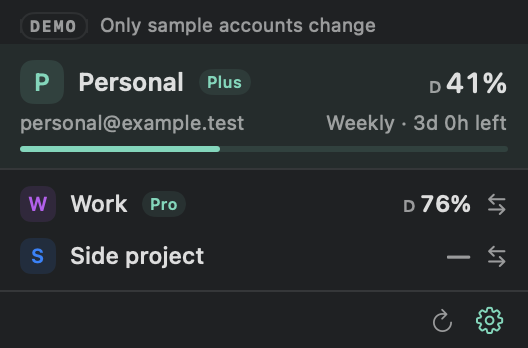
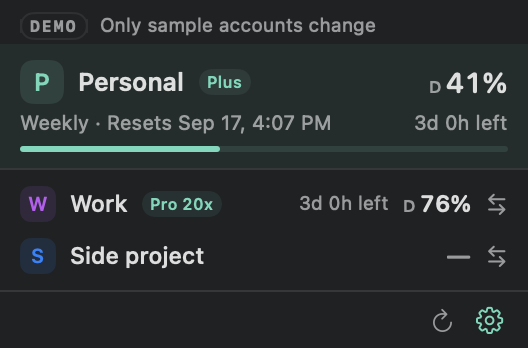
feat: official plan names, reset time on rows, usage-check flag
- Plan badges follow the Codex desktop app's own labels: Free, Go,
  Plus, Pro 5x (prolite), Pro 20x (pro), Team, Business, Edu variants,
  Enterprise for ent26/enterprise_cbp_*; unknown stays "plan unknown".
- ResetSchedule gains compactLabel ("9월 17일 오후 3:04 초기화" /
  "Resets Sep 17, 3:04 PM", with today/tomorrow forms). The signed-in
  row shows window, reset date/time, and time left; other rows show
  time left before the percent. Email moves to the tooltip.
- `--live --usage-check` runs the panel's live read and prints plan,
  windows, and any error without tokens, then exits.

Changed region(s): [[0.0303, 0.3161, 0.9697, 0.4023], [0.5758, 0.546, 0.7576, 0.6034], [0.3333, 0.546, 0.4242, 0.6034]]

diff --git a/Sources/CodexAccountToggle/Panel.swift b/Sources/CodexAccountToggle/Panel.swift
@@ -82,7 +82,7 @@ struct Panel: View {
         let warning = schedule.needsRefresh && window != nil
         return VStack(alignment: .leading, spacing: 3) {
             titleLine(profile, usage: usage, remaining: remaining)
-            detailLine(profile, text: detail.text, help: detail.help, warning: warning)
+            detailLine(left: detail.left, right: detail.right, help: detail.help, warning: warning)
             if window != nil { quotaBar(remaining) }
         }
         .padding(.horizontal, 10).padding(.vertical, 8)
@@ -101,12 +101,12 @@ struct Panel: View {
             percentLabel(usage: usage, remaining: remaining, size: 14)
         }
     }
-    private func detailLine(_ profile: Profile, text: String, help: String, warning: Bool) -> some View {
+    private func detailLine(left: String, right: String, help: String, warning: Bool) -> some View {
         HStack(spacing: 6) {
-            Text(profile.email).font(.system(size: 10)).foregroundStyle(.secondary).lineLimit(1).truncationMode(.middle)
+            Text(left).font(.system(size: 10)).foregroundStyle(.secondary).lineLimit(1).truncationMode(.middle)
             Spacer(minLength: 6)
-            Text(text).font(.system(size: 10)).lineLimit(1).foregroundStyle(warning ? Palette.warning : Color.secondary).help(help)
-        }
+            Text(right).font(.system(size: 10)).lineLimit(1).fixedSize().foregroundStyle(warning ? Palette.warning : Color.secondary)
+        }.help(help)
     }
     private func quotaBar(_ remaining: Double?) -> some View {
         GeometryReader { geometry in
@@ -122,6 +122,7 @@ struct Panel: View {
     private func otherRow(_ profile: Profile) -> some View {
         let usage = model.usage[profile.id]
         let window = usage.flatMap { orderedWindows($0).first }
+        let schedule = ResetSchedule(timestamp: window?.resetsAt, now: Date(), language: L10n.language)
         let remaining: Double? = window.flatMap { $0.resetPassed(at: Date()) ? nil : $0.remainingPercent }
         return Button { model.switchTo(profile) } label: {
             HStack(spacing: 7) {
@@ -129,6 +130,9 @@ struct Panel: View {
                 Text(profile.name).font(.system(size: 11.5, weight: .medium)).foregroundStyle(.primary).lineLimit(1).truncationMode(.middle)
                 planBadge(profile)
                 Spacer(minLength: 6)
+                if window != nil, !schedule.remainingLabel.isEmpty, !schedule.needsRefresh {
+                    Text(schedule.remainingLabel).font(.system(size: 9.5)).foregroundStyle(.secondary).fixedSize().help(schedule.compactLabel)
+                }
                 percentLabel(usage: usage, remaining: remaining, size: 11.5)
                 Image(systemName: "arrow.left.arrow.right").font(.system(size: 9, weight: .semibold)).foregroundStyle(.secondary)
             }.padding(.horizontal, 10).frame(height: PanelLayout.rowHeight).contentShape(Rectangle())
@@ -174,14 +178,11 @@ struct Panel: View {
         case .live: return usage.isStale(at: Date()) ? "~" : nil
         }
     }
-    private func detailLabel(usage: UsageSnapshot?, window: UsageWindow?, schedule: ResetSchedule) -> (text: String, help: String) {
-        if let window {
-            let when = schedule.remainingLabel.isEmpty ? schedule.dateLabel : schedule.remainingLabel
-            return (window.title + " · " + when, schedule.fullLabel)
-        }
-        if model.isDemo { return (L10n.text("사용량 미확인"), L10n.text("사용량 미확인 · 실시간 조회 연결 전")) }
+    private func detailLabel(usage: UsageSnapshot?, window: UsageWindow?, schedule: ResetSchedule) -> (left: String, right: String, help: String) {
+        if let window { return (window.title + " · " + schedule.compactLabel, schedule.remainingLabel, schedule.fullLabel) }
+        if model.isDemo { return (L10n.text("사용량 미확인"), "", L10n.text("사용량 미확인 · 실시간 조회 연결 전")) }
         let text = model.liveUsageError ?? L10n.text("사용량 기록 없음 · Codex를 사용하면 표시됩니다")
-        return (text, text)
+        return (text, "", text)
     }
     private func usageCaption(_ usage: UsageSnapshot) -> String {
         if productPreview { return L10n.text("한국 시간 (KST)") }

diff --git a/Sources/SwitchCore/ResetSchedule.swift b/Sources/SwitchCore/ResetSchedule.swift
@@ -6,6 +6,8 @@ public struct ResetSchedule {
     public let timeLabel: String
     public let remainingLabel: String
     public let fullLabel: String
+    /// One short phrase with day and clock time, e.g. "9월 17일 오후 3:04 초기화" / "Resets Sep 17, 3:04 PM".
+    public let compactLabel: String
     public let needsRefresh: Bool
 
     public init(timestamp: Double?, now: Date, language: AppLanguage = .korean) {
@@ -16,6 +18,7 @@ public struct ResetSchedule {
             timeLabel = ""
             remainingLabel = ""
             fullLabel = english ? "Reset time is unavailable." : "초기화 시각을 확인하지 못했습니다."
+            compactLabel = dateLabel
             needsRefresh = false
             return
         }
@@ -28,13 +31,19 @@ public struct ResetSchedule {
         formatter.timeZone = calendar.timeZone
         formatter.dateFormat = calendar.component(.year, from: now) == calendar.component(.year, from: date) ? (english ? "MMM d" : "M월 d일") : (english ? "MMM d, yyyy" : "yyyy년 M월 d일")
         let day = formatter.string(from: date)
+        let relativeDay: String?
         if calendar.isDate(date, inSameDayAs: now) {
+            relativeDay = english ? "today" : "오늘"
             dateLabel = (english ? "Today · " : "오늘 · ") + day
         } else if let tomorrow = calendar.date(byAdding: .day, value: 1, to: now), calendar.isDate(date, inSameDayAs: tomorrow) {
+            relativeDay = english ? "tomorrow" : "내일"
             dateLabel = (english ? "Tomorrow · " : "내일 · ") + day
-        } else { dateLabel = day }
+        } else { relativeDay = nil; dateLabel = day }
         formatter.dateFormat = english ? "h:mm a" : "a h:mm"
-        timeLabel = (english ? "Resets " : "") + formatter.string(from: date) + (english ? "" : " 초기화")
+        let clock = formatter.string(from: date)
+        timeLabel = (english ? "Resets " : "") + clock + (english ? "" : " 초기화")
+        compactLabel = english ? "Resets " + (relativeDay ?? day) + (relativeDay == nil ? ", " : " ") + clock
+                               : (relativeDay ?? day) + " " + clock + " 초기화"
         formatter.dateFormat = english ? "EEEE, MMM d, yyyy h:mm:ss a" : "yyyy년 M월 d일 (EEEE) a h:mm:ss"
         fullLabel = formatter.string(from: date) + (english ? " · Korea time (KST)" : " · 한국 시간 (KST)")
         needsRefresh = date <= now

diff --git a/Sources/CodexAccountToggle/App.swift b/Sources/CodexAccountToggle/App.swift
@@ -63,6 +63,26 @@ final class AppDelegate: NSObject, NSApplicationDelegate, NSPopoverDelegate {
             NSApp.terminate(nil)
             return
         }
+        if CommandLine.arguments.contains("--usage-check") {
+            // Diagnostic: run the same live read the panel uses and print a token-free summary.
+            guard !model.isDemo else { print("usage-check requires --live"); NSApp.terminate(nil); return }
+            Task { @MainActor in
+                model.refreshLiveUsage(force: true)
+                for _ in 0..<60 where model.liveUsage.isLoading || model.usage[model.current ?? ""]?.source != .live && model.liveUsageError == nil {
+                    try? await Task.sleep(nanoseconds: 250_000_000)
+                }
+                let current = model.current ?? "-"
+                let snapshot = model.usage[current]
+                print("current profile:", current.prefix(8), "| saved profiles:", model.profiles.count)
+                print("live error:", model.liveUsageError ?? "none")
+                print("source:", snapshot.map { "\($0.source)" } ?? "none", "| plan:", snapshot?.plan ?? "nil", "| label:", snapshot?.planLabel ?? "nil")
+                for window in snapshot?.windows ?? [] {
+                    print("window:", window.title, "| used:", window.usedPercent ?? -1, "| resets_at:", window.resetsAt ?? -1)
+                }
+                NSApp.terminate(nil)
+            }
+            return
+        }
         // A previous-name instance may still be open; never terminate or run alongside it.
         let peers = NSRunningApplication.runningApplications(withBundleIdentifier: Bundle.main.bundleIdentifier ?? "com.chunghyup.codex-account-toggle")
         let legacyPeers = NSRunningApplication.runningApplications(withBundleIdentifier: "local.codexswitch.menubar")

diff --git a/Sources/SwitchCore/Usage.swift b/Sources/SwitchCore/Usage.swift
@@ -75,18 +75,27 @@ public struct UsageSnapshot {
         let limit = payload.rateLimitsByLimitId.map { $0["codex"] } ?? payload.rateLimits
         return UsageSnapshot(profileID: profileID, plan: plan ?? limit?.planType, limit: limit, observedAt: observedAt, source: source)
     }
+    /// Labels follow the Codex desktop app's own plan names ("prolite" is Pro 5x, "pro" is Pro 20x).
     public var planLabel: String {
         guard let plan, !plan.isEmpty else { return L10n.text("요금제 미확인") }
         let lowered = plan.lowercased()
         switch lowered {
-        case "plus": return "Plus"
-        case "pro": return "Pro"
         case "free": return "Free"
-        case "business", "team": return "Business"
-        case "enterprise": return "Enterprise"
+        case "go": return "Go"
+        case "plus": return "Plus"
+        case "prolite": return "Pro 5x"
+        case "pro": return "Pro 20x"
+        case "team": return "Team"
+        case "business": return "Business"
+        case "self_serve_business_prolite": return "Business 5x"
+        case "self_serve_business_usage_based": return "Business"
+        case "edu": return "Edu"
+        case "edu_plus": return "Edu Plus"
+        case "edu_pro": return "Edu Pro"
+        case "unknown": return L10n.text("요금제 미확인")
         default: break
         }
-        if lowered.contains("enterprise") { return "Enterprise" }
+        if lowered.contains("enterprise") || lowered.hasPrefix("ent") { return "Enterprise" }
         if lowered.contains("business") || lowered.contains("team") { return "Business" }
         return plan.split(separator: "_").map { $0.prefix(1).uppercased() + $0.dropFirst() }.joined(separator: " ")
     }

diff --git a/Tests/SwitchCoreTests/SessionUsageTests.swift b/Tests/SwitchCoreTests/SessionUsageTests.swift
@@ -85,7 +85,7 @@ final class SessionUsageTests: XCTestCase {
         XCTAssertEqual(usage[a.id]?.source, .sessionLog)
         XCTAssertFalse(usage[a.id]!.isDemo)
         XCTAssertFalse(usage[a.id]!.isStale(at: Date()))
-        XCTAssertEqual(usage[a.id]?.planLabel, "Business")
+        XCTAssertEqual(usage[a.id]?.planLabel, "Business 5x")
         XCTAssertEqual((try FileManager.default.attributesOfItem(atPath: store.root.appendingPathComponent("usage.json").path)[.posixPermissions] as? NSNumber)?.intValue, 0o600)
         try FileManager.default.removeItem(at: first)
         usage = SessionUsage.collect(store: store, profileIDs: [a.id, b.id])
@@ -107,9 +107,13 @@ final class SessionUsageTests: XCTestCase {
     }
     func testPlanLabelHumanizesServicePlans() {
         func label(_ plan: String) -> String { UsageSnapshot(profileID: "x", plan: plan, limit: nil, observedAt: Date(), source: .sessionLog).planLabel }
-        XCTAssertEqual(label("self_serve_business_prolite"), "Business")
+        XCTAssertEqual(label("prolite"), "Pro 5x")
+        XCTAssertEqual(label("pro"), "Pro 20x")
         XCTAssertEqual(label("plus"), "Plus")
-        XCTAssertEqual(label("prolite"), "Prolite")
-        XCTAssertEqual(label("enterprise_x"), "Enterprise")
+        XCTAssertEqual(label("self_serve_business_prolite"), "Business 5x")
+        XCTAssertEqual(label("ent26"), "Enterprise")
+        XCTAssertEqual(label("enterprise_cbp_usage_based"), "Enterprise")
+        XCTAssertEqual(label("edu_pro"), "Edu Pro")
+        XCTAssertEqual(label("unknown"), L10n.text("요금제 미확인"))
     }
 }

diff --git a/Tests/SwitchCoreTests/ResetScheduleTests.swift b/Tests/SwitchCoreTests/ResetScheduleTests.swift
@@ -2,6 +2,16 @@ import XCTest
 @testable import SwitchCore
 
 final class ResetScheduleTests: XCTestCase {
+    func testCompactLabelCarriesDayAndClock() {
+        let reset = ISO8601DateFormatter().date(from: "2026-09-17T06:04:00Z")! // 15:04 KST
+        let far = reset.addingTimeInterval(-3 * 86400)
+        XCTAssertEqual(ResetSchedule(timestamp: reset.timeIntervalSince1970, now: far, language: .korean).compactLabel, "9월 17일 오후 3:04 초기화")
+        XCTAssertEqual(ResetSchedule(timestamp: reset.timeIntervalSince1970, now: far, language: .english).compactLabel, "Resets Sep 17, 3:04 PM")
+        let sameDay = reset.addingTimeInterval(-3600)
+        XCTAssertEqual(ResetSchedule(timestamp: reset.timeIntervalSince1970, now: sameDay, language: .korean).compactLabel, "오늘 오후 3:04 초기화")
+        XCTAssertEqual(ResetSchedule(timestamp: reset.timeIntervalSince1970, now: sameDay, language: .english).compactLabel, "Resets today 3:04 PM")
+        XCTAssertEqual(ResetSchedule(timestamp: nil, now: far, language: .english).compactLabel, "Reset date unavailable")
+    }
     func date(_ value: String) -> Date { ISO8601DateFormatter().date(from: value)! }
     func testTodayUsesKoreanTimeAndExactClock() {
         let value = ResetSchedule(timestamp: date("2026-09-10T14:30:00Z").timeIntervalSince1970, now: date("2026-09-10T12:10:00Z"))

diff --git a/docs/design.md b/docs/design.md
@@ -15,7 +15,7 @@
 
 ## 구조와 상호작용 (2026-09-14 컴팩트 개편)
 
-(데모 표시줄) → 현재 계정 → 다른 계정 목록 → 필요한 상태 메시지 → 하단 도구 순서. 헤더, 큰 카드, 데모 안내 영역, 가시적 더보기 버튼은 제거했다. 현재 계정은 이름·요금제·잔여 %와 이메일·창 이름·초기화까지 남은 시간, 3pt 게이지의 두 줄이다. 다른 계정은 한 줄(26pt)이며 행을 클릭하면 전환한다. 이름 변경은 각 행의 우클릭 메뉴, 데모 시나리오와 표시 옵션은 톱니바퀴 메뉴에 있다. 전환 중에는 계정 선택과 관리 동작을 잠근다. 실제 전환 경로의 확인 절차는 유지한다.
+(데모 표시줄) → 현재 계정 → 다른 계정 목록 → 필요한 상태 메시지 → 하단 도구 순서. 헤더, 큰 카드, 데모 안내 영역, 가시적 더보기 버튼은 제거했다. 현재 계정은 이름·요금제·잔여 %와 창 이름·초기화 날짜/시각·남은 시간, 3pt 게이지의 두 줄이다. 이메일은 도움말과 접근성 이름으로만 제공한다. 다른 계정은 한 줄(26pt)에 남은 시간과 잔여 %를 함께 보여주며 행을 클릭하면 전환한다. 요금제 배지는 Codex 데스크톱 앱의 표기(Free/Go/Plus/Pro 5x/Pro 20x, 비즈니스·엔터프라이즈·교육 변형)를 따른다. 이름 변경은 각 행의 우클릭 메뉴, 데모 시나리오와 표시 옵션은 톱니바퀴 메뉴에 있다. 전환 중에는 계정 선택과 관리 동작을 잠근다. 실제 전환 경로의 확인 절차는 유지한다.
 
 264pt 폭, 높이는 내용에 맞춰 자동(계정 3개 기준 약 174pt). 10pt 바깥 여백, 3~7pt 간격. 현재 계정명 12.5pt, 일반 계정명 11.5pt, 이메일/보조 정보 10pt, 잔여 % 14/11.5pt rounded. 데이터 출처는 %% 앞의 작은 표식(`D` 샘플, `기록` 세션 기록, `~` 오래된 값)과 도움말로 알린다. 계정이 6개를 넘으면 목록만 스크롤한다. 다크 모드는 시스템 외관을 따르며 청록색 밝기를 높인다.
 

diff --git a/README.md b/README.md
@@ -89,6 +89,6 @@ Only when you choose to test your own real accounts, finish your Codex work and 
 open "$HOME/Applications/Codex Account Toggle.app" --args --live
 ```
 
-This command is for your manual QA, not automated development tests. Save account A with **Save signed-in account**. Sign in to account B yourself in Codex and save B too. Test B→A→B, verify the account shown inside Codex after each restart, and check project/conversation availability. Cancel a switch confirmation and verify the current account stays selected. If quitting fails, the switch should stop without replacing credentials. Do not force a failure against real credentials; use demo scenarios for recovery testing.
+This command is for your manual QA, not automated development tests. To see what the live read returns without opening the panel, run the executable with `--live --usage-check`; it prints the plan, windows, and any error (never tokens) and exits. Save account A with **Save signed-in account**. Sign in to account B yourself in Codex and save B too. Test B→A→B, verify the account shown inside Codex after each restart, and check project/conversation availability. Cancel a switch confirmation and verify the current account stays selected. If quitting fails, the switch should stop without replacing credentials. Do not force a failure against real credentials; use demo scenarios for recovery testing.
 
 The build is locally ad-hoc signed, not Developer ID signed or notarized. No installer, automatic updater, or Windows binary is provided yet. Double-clicking the app next time starts demo mode again; `--live` is not persisted. Send QA observations without authentication files, tokens, or personal account screenshots.

diff --git a/README.ko.md b/README.ko.md
@@ -42,7 +42,7 @@ open "$HOME/Applications/Codex Account Toggle.app"
 
 하단 데모 설정에서 정상 전환, 종료 거부, 재실행 실패 후 복구를 선택할 수 있습니다. 계정 이름은 각 계정의 `···` 메뉴로 바꿉니다. 데모에는 실제 로그인 저장·가져오기 기능을 노출하지 않습니다. `--window` 실행 인수는 데모 패널을 별도 창으로 엽니다.
 
-`--render-preview`는 같은 SwiftUI 화면을 `dist/demo-preview.png`에 렌더링하고 종료합니다. 실제 앱 제어 및 실계정 접근을 수행하지 않습니다.
+`--render-preview`는 같은 SwiftUI 화면을 `dist/demo-preview.png`에 렌더링하고 종료합니다. `--live --usage-check`는 패널을 열지 않고 실시간 조회 결과(요금제·창·오류, 토큰 제외)를 출력하고 종료합니다. 실제 앱 제어 및 실계정 접근을 수행하지 않습니다.
 
 ## 실사용 기능 (개발 중 테스트 금지)
 

diff --git a/CHANGELOG.md b/CHANGELOG.md
@@ -3,6 +3,7 @@
 ## Unreleased
 
 - The panel now closes on a click anywhere outside it, including in other apps.
+- Plan badges use the Codex desktop app's names (Pro 5x, Pro 20x, Go, Edu variants); the signed-in row shows the reset date and time next to the time left, and other rows show their time left; `--live --usage-check` prints the live read for QA.
 - Compacted the menu-bar panel to a 264-point-wide, content-sized list (about 174 points for three accounts): one line per account, quota on the signed-in row, rename via right-click, demo scenario and display options in the gear menu.
 - Live mode reads the signed-in account's current quota through a short-lived `codex app-server` process (owner-authorized); saved inactive accounts are never queried.
 - Live mode shows the last quota reading Codex recorded in this Mac's session logs for other saved accounts, attributed through the app's own save/switch history.
